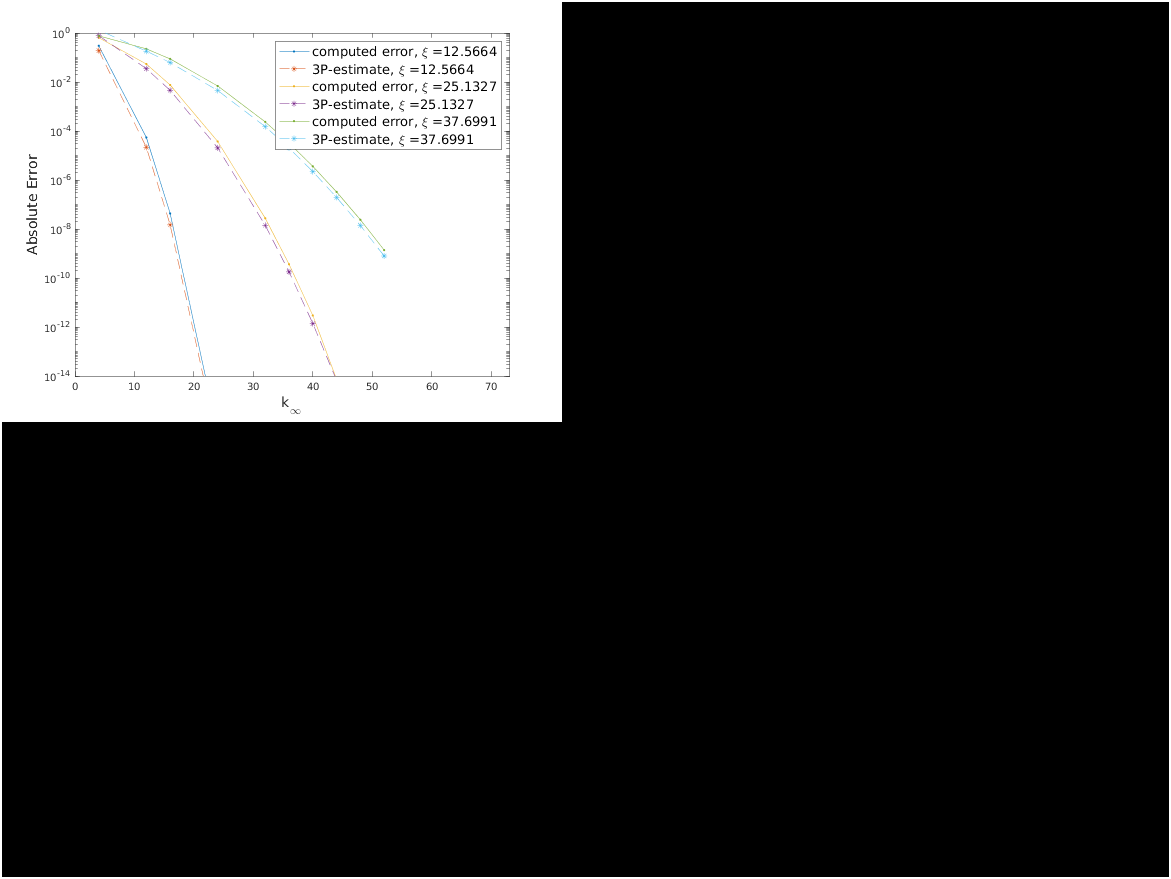
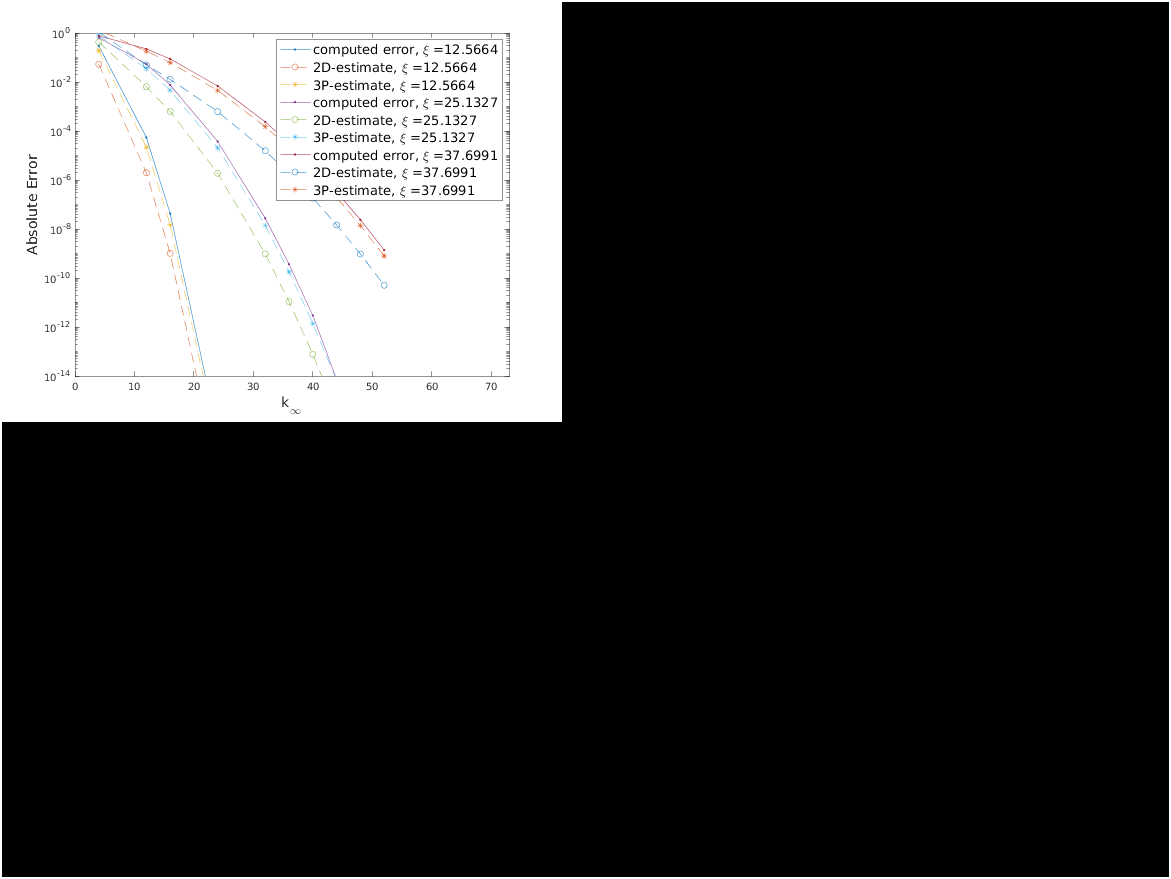
img

diff --git a/SE_Stokes_run/SE3P_Stokes/param_select.m b/SE_Stokes_run/SE3P_Stokes/param_select.m
@@ -105,16 +105,16 @@ for xi = xx
     end
     semilogy(MM./2,err,'.-')
     hold on
-    %semilogy(MM./2,ee,'--o')
+    semilogy(MM./2,ee,'--o')
     semilogy(MM./2,eee,'--*')
     str = [str,strcat('computed error, \xi =', num2str(xi))];
-    %str = [str, strcat('2D-estimate, \xi =', num2str(xi))];
+    str = [str, strcat('2D-estimate, \xi =', num2str(xi))];
     str = [str, strcat('3P-estimate, \xi =', num2str(xi))];
     
 end
 ylim([10^-14,1])
 xlim([0,73])
-legend(str{:},'Location','NorthEast','FontSize',13)
+legend(str{:},'Location','Best','FontSize',13)
 ylabel('Absolute Error','FontSize',14)
 xlabel('k_{\infty}','FontSize',14)
 %ylabel('\epsilon','FontSize',14)
